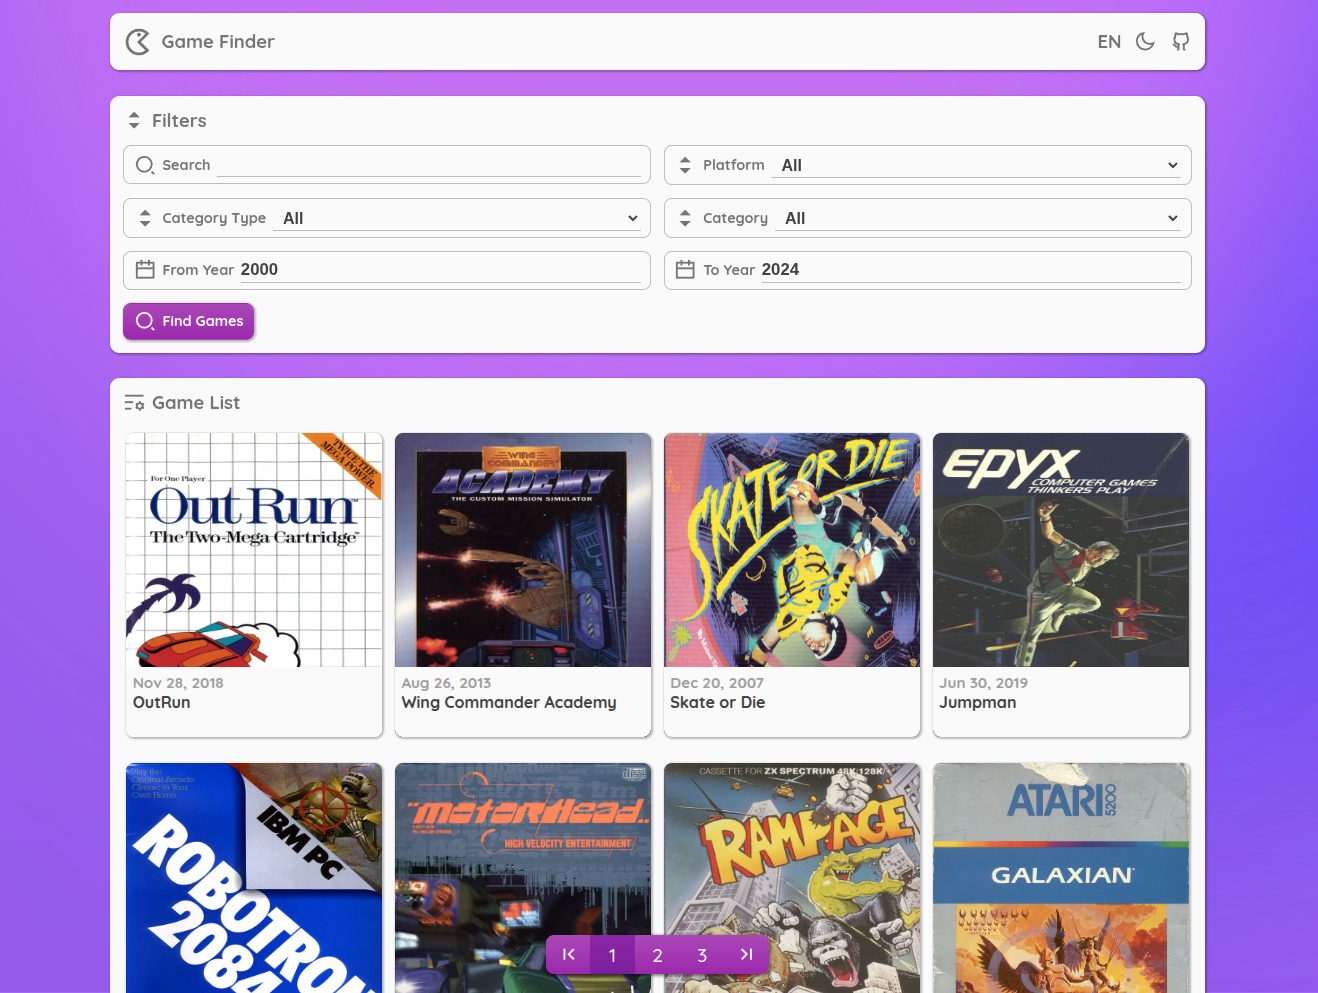
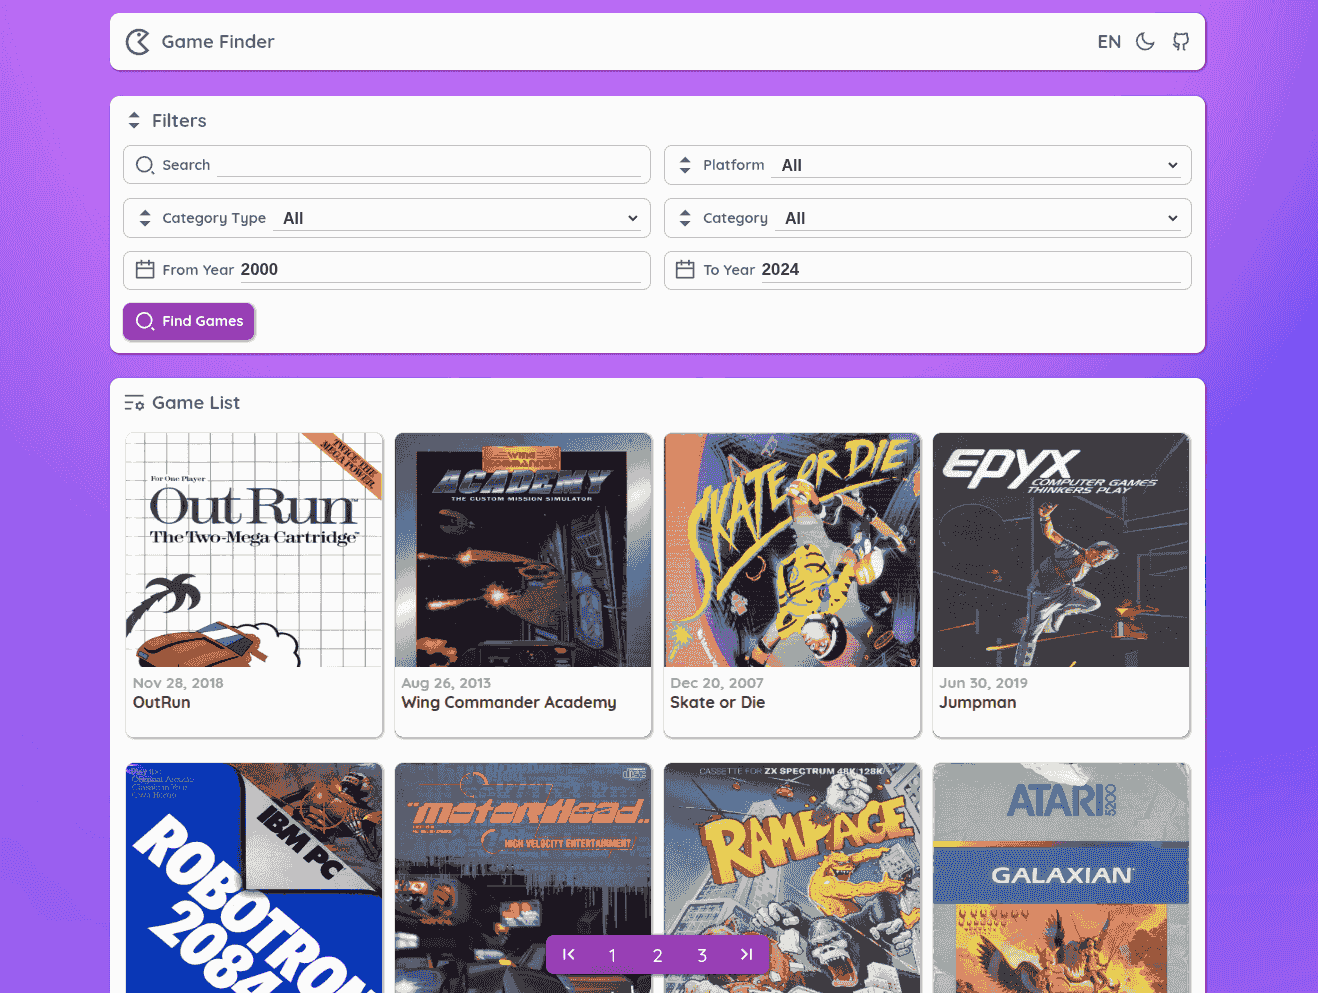
chore: change image compression config

diff --git a/vite.config.ts b/vite.config.ts
@@ -5,8 +5,8 @@ import tsconfigPaths from 'vite-tsconfig-paths';
 
 const imagePlugin = ViteImageOptimizer({
   jpg: { quality: 15 },
-  png: { quality: 15 },
   jpeg: { quality: 15 },
+  png: { quality: 5, colors: 64, dither: 0.5 },
 });
 
 export default defineConfig({
